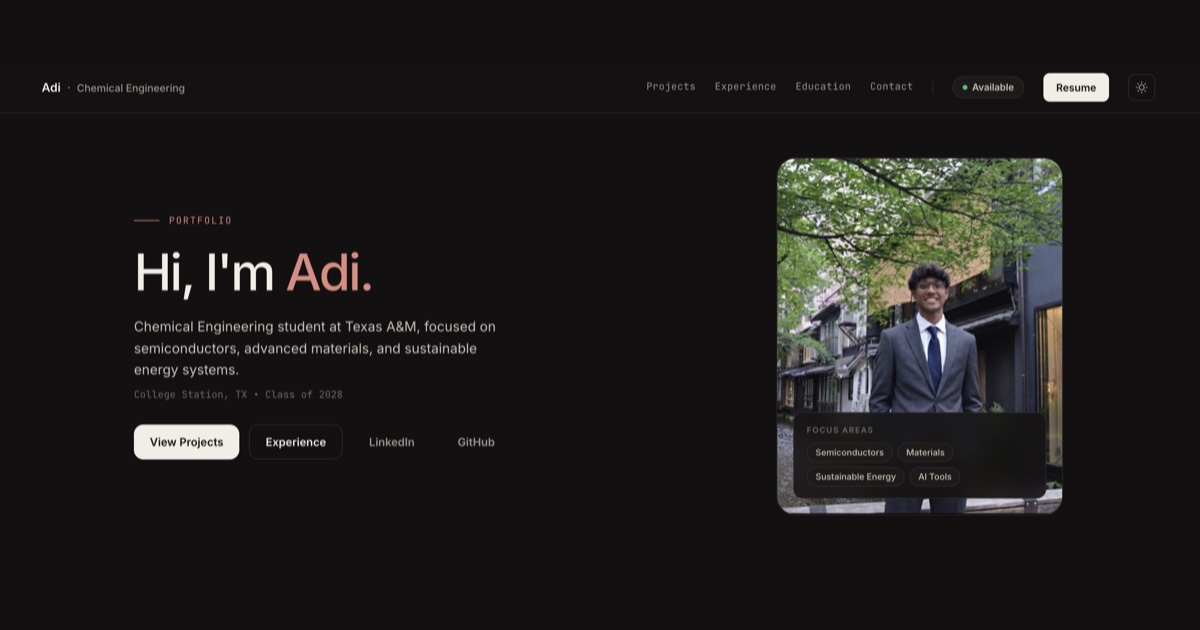
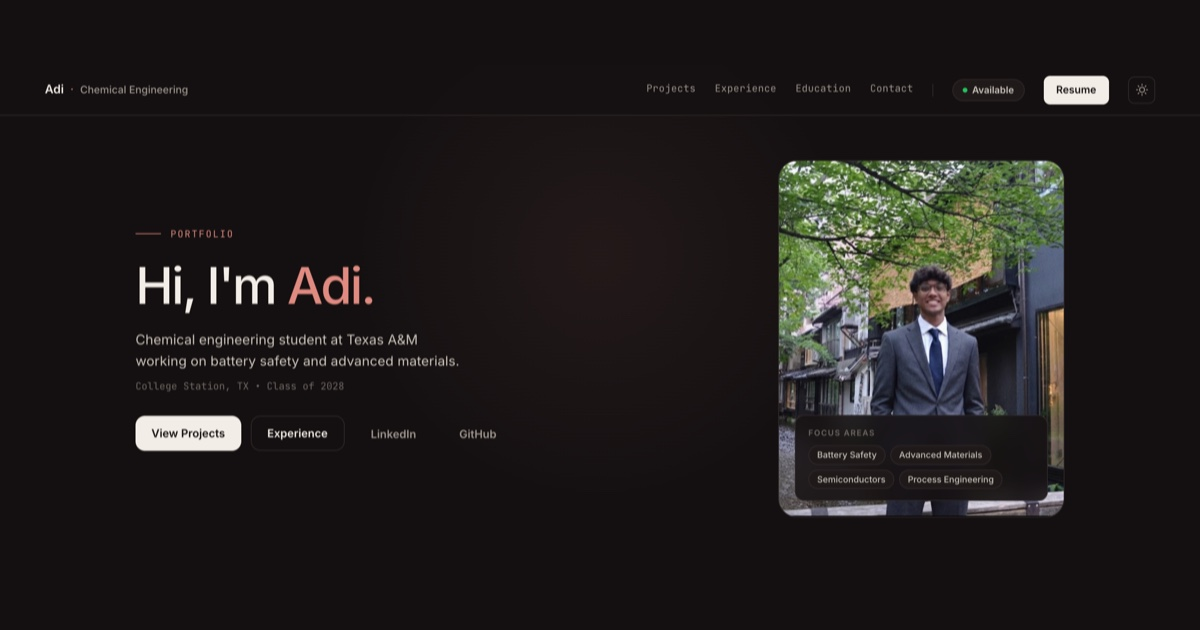
Refresh link preview image with the current hero
New tagline and focus areas; ?v=2 on the og/twitter image URL so
LinkedIn, iMessage and Slack fetch the new image instead of a cached one.

diff --git a/index.html b/index.html
@@ -25,7 +25,7 @@
     <meta property="og:type" content="website" />
     <meta property="og:url" content="%VITE_SITE_URL%" />
     <meta property="og:site_name" content="Aditya Meenakshisundaram" />
-    <meta property="og:image" content="%VITE_SITE_URL%/og-image.jpg" />
+    <meta property="og:image" content="%VITE_SITE_URL%/og-image.jpg?v=2" />
     <meta property="og:image:type" content="image/jpeg" />
     <meta property="og:image:width" content="1200" />
     <meta property="og:image:height" content="630" />
@@ -36,7 +36,7 @@
     <meta name="twitter:title" content="Aditya Meenakshisundaram | Chemical Engineering Student" />
     <meta name="twitter:description" content="Honors Chemical Engineering student at Texas A&M working on battery safety and advanced materials." />
     <meta name="twitter:url" content="%VITE_SITE_URL%" />
-    <meta name="twitter:image" content="%VITE_SITE_URL%/og-image.jpg" />
+    <meta name="twitter:image" content="%VITE_SITE_URL%/og-image.jpg?v=2" />
     <meta name="twitter:image:alt" content="Aditya Meenakshisundaram's portfolio: Chemical Engineering student at Texas A&amp;M" />
 
     <!-- Theme Color -->
